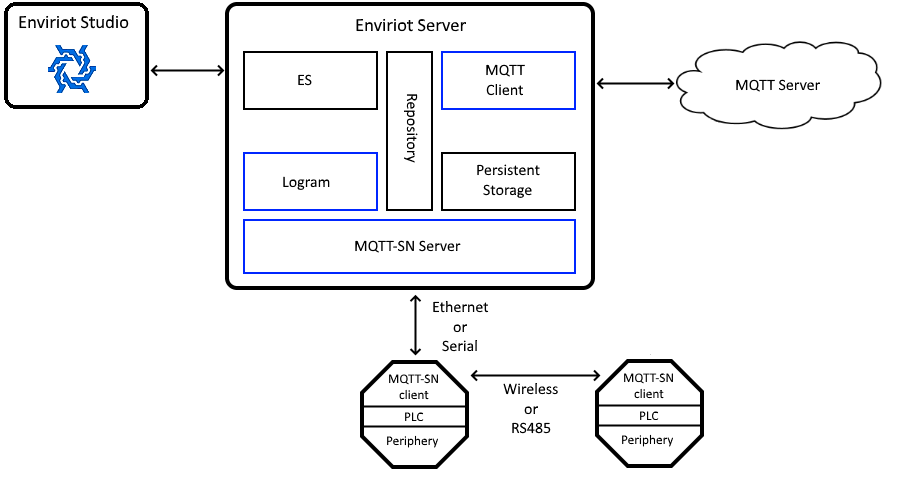
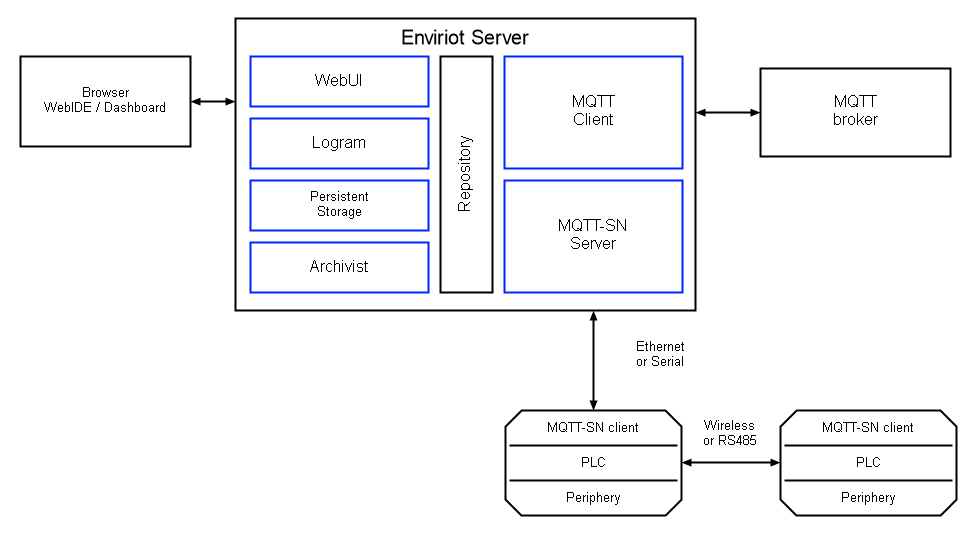
catalog(ADD) Decoder

Changed region(s): [[0.0, 0.0, 0.9922, 0.9959], [0.6512, 0.6224, 0.7132, 0.6846]]

diff --git a/README.md b/README.md
@@ -1,34 +1,57 @@
 ![Logo](logo.png)
 
+**Enviriot** is a low-code platform for device management and process automation.
+
+A device, its settings, a sensor reading and a computed value are all represented the same
+way — as topics in one tree — so the state of the whole system can be watched and changed in
+real time. The control logic is drawn as visual diagrams (Logram), and everything else is
+added by plugins: they attach devices and external systems, store data and history, and serve
+the user interfaces. Plugins talk to each other only through the topic tree.
+
 ![overview](overview.png)
 
-### Enviriot Studio (bin_ui/ES.exe)
-- [x] Inspector view
-- [x] Logram view
-- [x] Output form
-- [x] Catalog view
-
 ### Enviriot Server (bin/enviriot.exe)
-- [x] Repository
-- [x] Persitent Storage(using LiteDB)
+- [x] Repository. The topic tree, the change queue and the engine tick
+- [x] Runs as a console application or as a Windows service
+- [x] Plugins discovered and loaded through MEF, started by priority
+- [x] JavaScript runtime (NiL.JS) shared by user scripts and Logram blocks
+- [x] XST import/export of any subtree
 
-### plugin MQTT-SN (bin/MQTT-SN.dll)
+### plugin PersistentStorage (bin/PersistentStorage.dll)
+- [x] State and manifest storage on LiteDB
+- [x] Tree restored at startup, before the plugins that read it
+- [x] Backup of the working database before it is opened
+
+### plugin Archivist (bin/Archivist.dll)
+- [x] Value history
+- [x] Rollups over 5 minutes, an hour and a day
+- [x] Retention policy
+- [x] One query model for both charts and JavaScript
+
+### plugin Logram (bin/Logram.dll)
+- [x] JavaScript based Logram blocks
+- [x] A synchronous processor unit
+- [x] Published block [catalog](catalog/logram/)
+
+### plugin MQTT-SN (bin/MQTT_SN.dll)
 - [x] MQTT-SN Broker v1.2
 - [x] ZeroConf. Search gateway & DHCP for devices
 - [x] GPIO. Digital inputs/outputs, Analog inputs, PWM, UART.
 - [x] TWI(I2C)
 - [x] ScriptOnDevice
 
-### plugin MQTT-SN (bin/Logram.dll)
-- [x] JavaScript based Logramm blocks
-- [x] A synchronous processor unit
-
 ### plugin MQTT (bin/MQTT.dll)
-- [x] MQTT Client v3.1
+- [x] MQTT Client v3.1 and v3.1.1
 
 ### plugin WebUI (bin/WebUI.dll)
+- [x] WebIDE. Tree, Inspector, Logram editor, catalog and log, in the browser
+- [x] Dashboard. Pages assembled by the user from ready-made components
 - [x] pub/sub over WebSocket
-- [x] Archive
+- [x] Charts over the Archivist history
+- [x] Dashboard access declared per topic; WebIDE limited to the local network
+
+Both interfaces are served on port 80, falling back to 8080..8089 when it is taken:
+unpack the release, start `enviriot.exe` and open `http://localhost/`.
 
 Download | Link
 ---------|------
